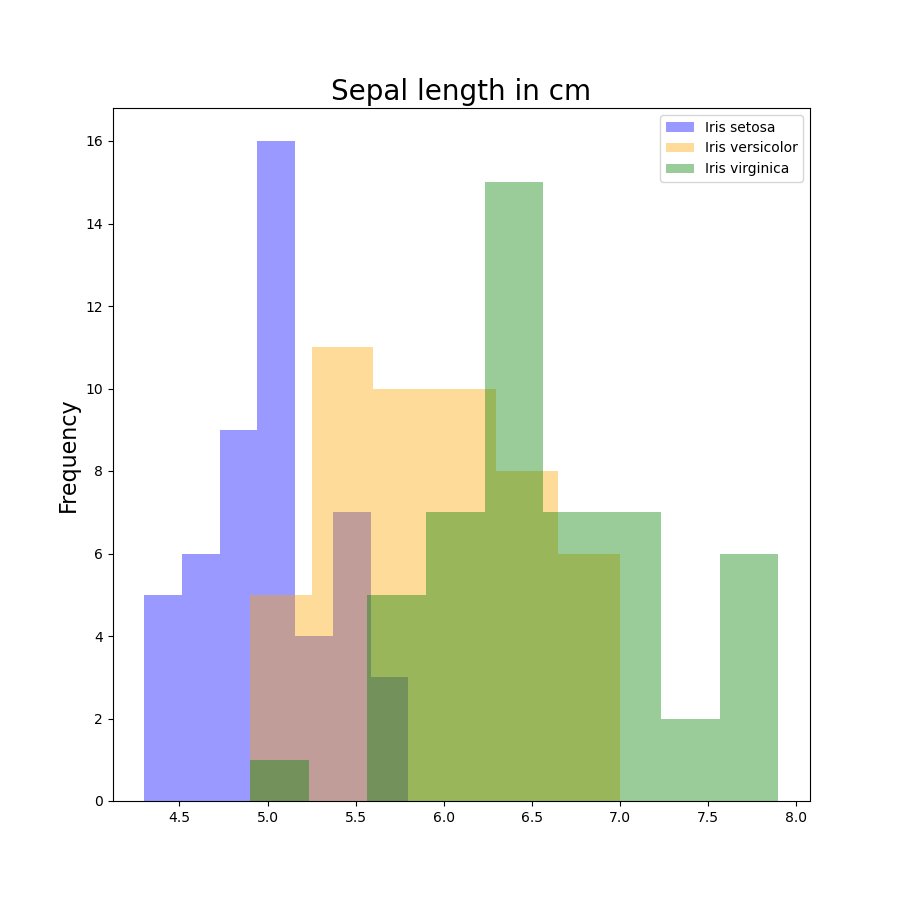
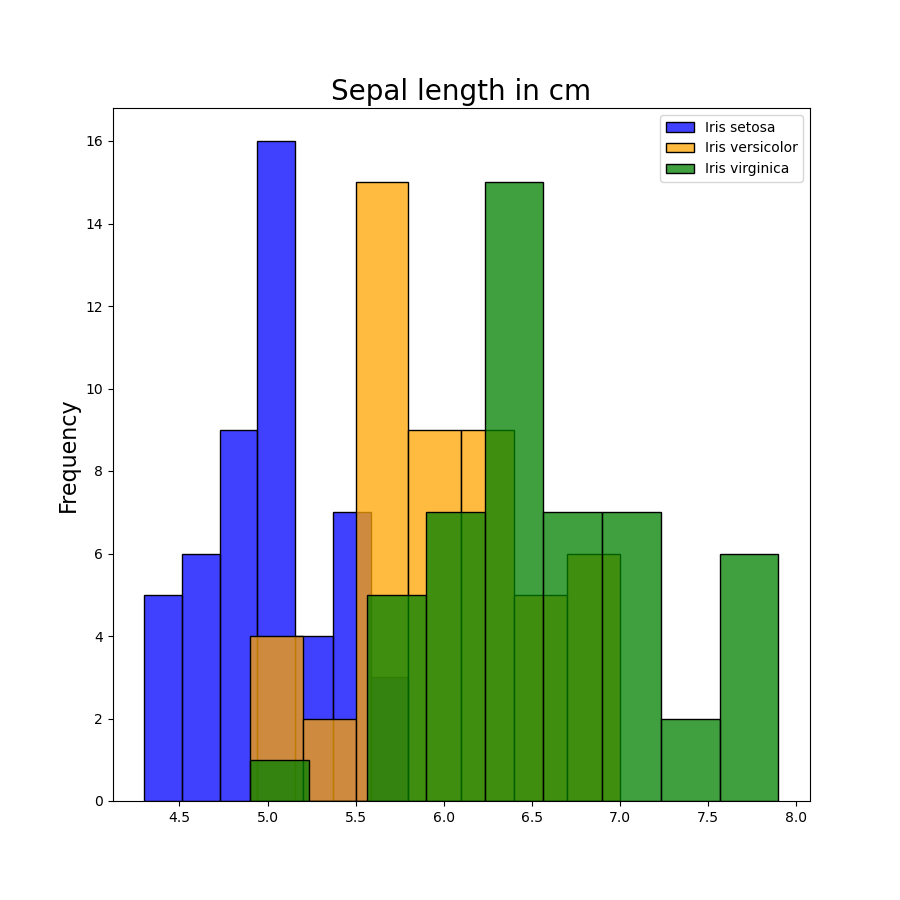
update histogram code to replace distplot() with histplot()

Changed region(s): [[0.1556, 0.1556, 0.8711, 0.9022], [0.7156, 0.1244, 0.7778, 0.2178]]

diff --git a/analysis.py b/analysis.py
@@ -87,9 +87,9 @@ def sepal_length_hist():
     # https://stackoverflow.com/questions/332289/how-do-you-change-the-size-of-figures-drawn-with-matplotlib
     plt.figure(figsize = (9,9))
     # https://cmdlinetips.com/2019/02/how-to-make-histogram-in-python-with-pandas-and-seaborn/
-    sns.distplot(iris_s["SepalLengthCm"],  kde = False, label = "Iris setosa", color = "blue", )
-    sns.distplot(iris_vers["SepalLengthCm"],  kde = False, label = "Iris versicolor", color = "orange")
-    sns.distplot(iris_virg["SepalLengthCm"],  kde = False, label = "Iris virginica", color = "green")
+    sns.histplot(iris_s["SepalLengthCm"],  kde = False, label = "Iris setosa", color = "blue", )
+    sns.histplot(iris_vers["SepalLengthCm"],  kde = False, label = "Iris versicolor", color = "orange")
+    sns.histplot(iris_virg["SepalLengthCm"],  kde = False, label = "Iris virginica", color = "green")
     plt.title("Sepal length in cm", size = 20)
     plt.xlabel("")
     plt.ylabel("Frequency", size = 16)
@@ -100,9 +100,9 @@ def sepal_length_hist():
 # function for plotting a histogram for sepal width
 def sepal_width_hist():
     plt.figure(figsize = (9,9))
-    sns.distplot(iris_s["SepalWidthCm"],  kde = False, label = "Iris setosa", color = "blue")
-    sns.distplot(iris_vers["SepalWidthCm"],  kde=False, label = "Iris versicolor", color = "orange")
-    sns.distplot(iris_virg["SepalWidthCm"],  kde=False, label = "Iris virginica", color = "green")
+    sns.histplot(iris_s["SepalWidthCm"],  kde = False, label = "Iris setosa", color = "blue")
+    sns.histplot(iris_vers["SepalWidthCm"],  kde=False, label = "Iris versicolor", color = "orange")
+    sns.histplot(iris_virg["SepalWidthCm"],  kde=False, label = "Iris virginica", color = "green")
     plt.title("Sepal width in cm", size = 20)
     plt.xlabel("")
     plt.ylabel("Frequency", size = 16)
@@ -113,9 +113,9 @@ def sepal_width_hist():
 # function for plotting a histogram for petal length
 def petal_length_hist():
     plt.figure(figsize = (9,9))
-    sns.distplot(iris_s["PetalLengthCm"],  kde = False, label = "Iris setosa", color = "blue")
-    sns.distplot(iris_vers["PetalLengthCm"],  kde = False, label = "Iris versicolor", color = "orange")
-    sns.distplot(iris_virg["PetalLengthCm"],  kde = False, label = "Iris virginica", color = "green")
+    sns.histplot(iris_s["PetalLengthCm"],  kde = False, label = "Iris setosa", color = "blue")
+    sns.histplot(iris_vers["PetalLengthCm"],  kde = False, label = "Iris versicolor", color = "orange")
+    sns.histplot(iris_virg["PetalLengthCm"],  kde = False, label = "Iris virginica", color = "green")
     plt.title("Petal length in cm", size = 20)
     plt.xlabel("")
     plt.ylabel("Frequency", size = 16)
@@ -126,9 +126,9 @@ def petal_length_hist():
 # function for plotting a histogram for petal width
 def petal_width_hist():
     plt.figure(figsize = (9,9))
-    sns.distplot(iris_s["PetalWidthCm"],  kde = False, label = "Iris setosa", color = "blue")
-    sns.distplot(iris_vers["PetalWidthCm"],  kde = False, label = "Iris versicolor", color = "orange")
-    sns.distplot(iris_virg["PetalWidthCm"],  kde = False, label = "Iris virginica", color = "green")
+    sns.histplot(iris_s["PetalWidthCm"],  kde = False, label = "Iris setosa", color = "blue")
+    sns.histplot(iris_vers["PetalWidthCm"],  kde = False, label = "Iris versicolor", color = "orange")
+    sns.histplot(iris_virg["PetalWidthCm"],  kde = False, label = "Iris virginica", color = "green")
     plt.title("Petal width in cm", size = 20)
     plt.xlabel("")
     plt.ylabel("Frequency", size = 16)
